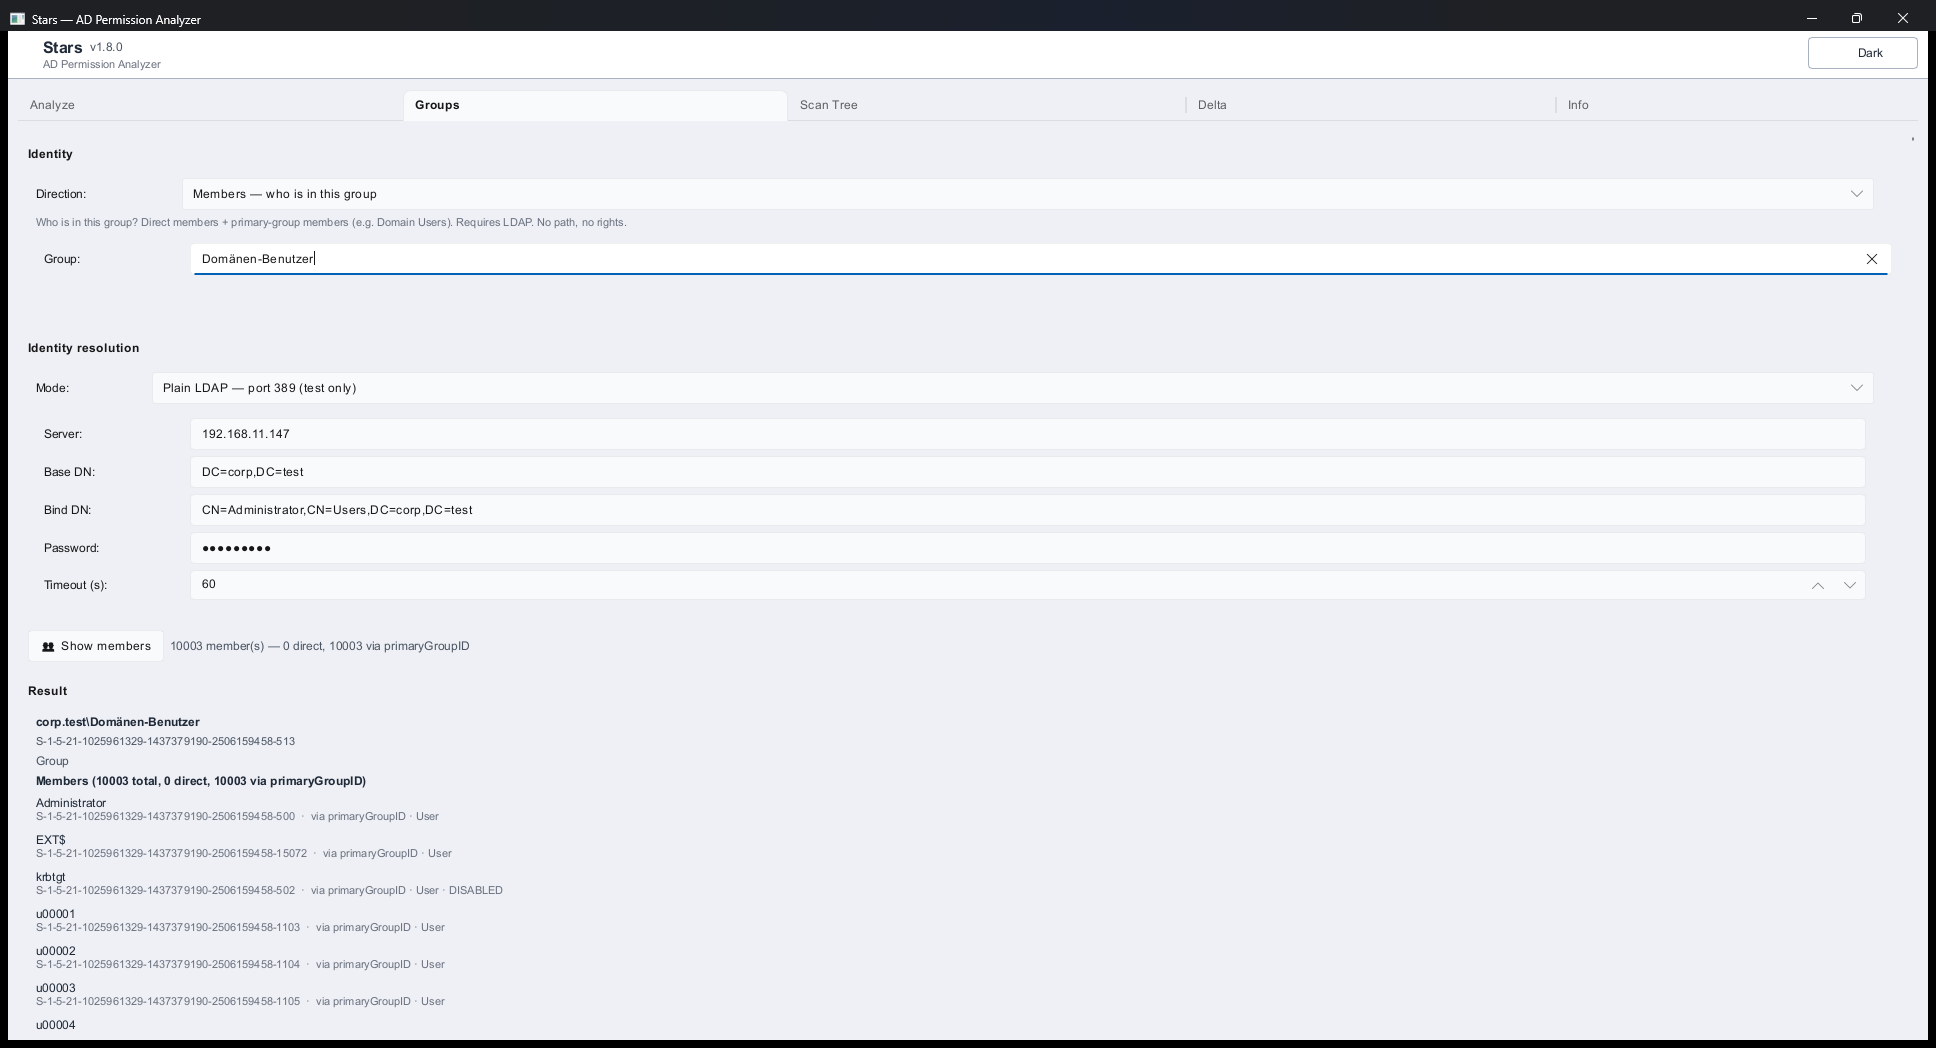
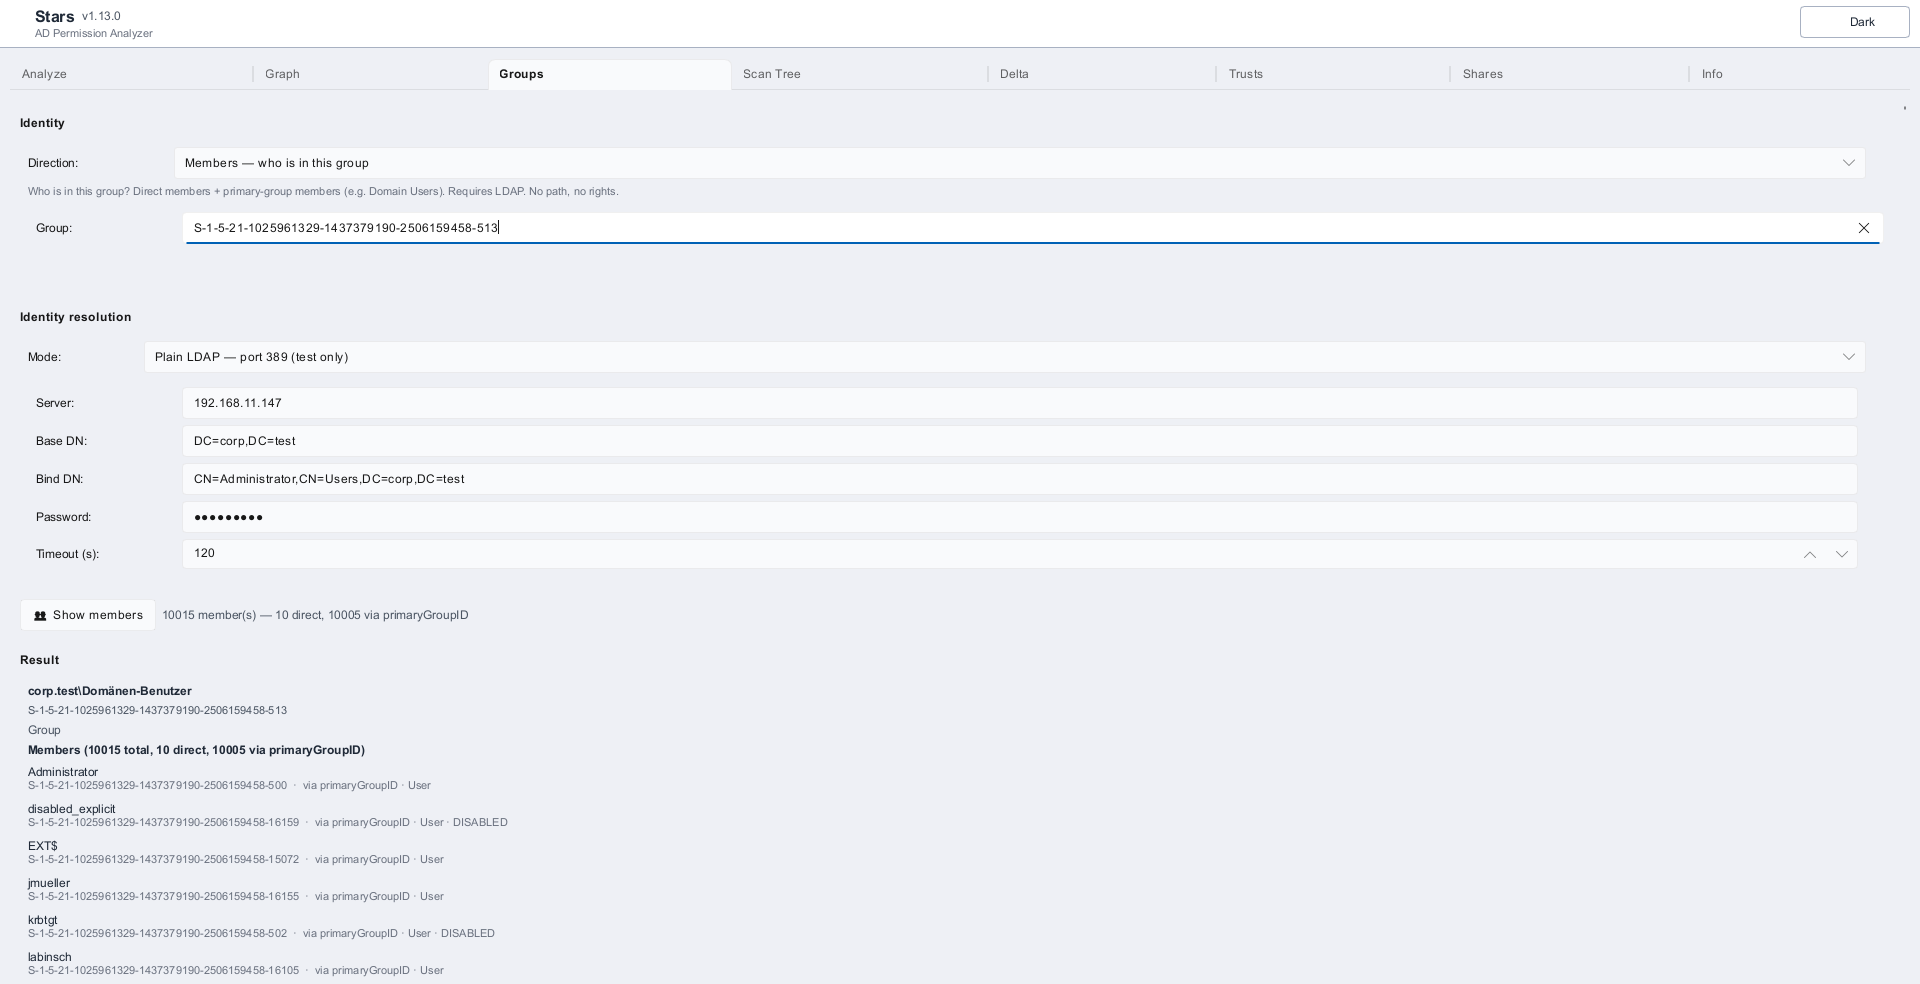
docs(screenshots): Members, Trusts and Shares tabs retaken on v1.13.0
The Shares shot showed raw SIDs; v1.11 resolves trustee names on the
server. All shots now show the eight-tab bar.

diff --git a/README.md b/README.md
@@ -427,7 +427,7 @@ Output:
 
 Switch the **Direction** toggle to **Members** to list **who is in a group** instead — direct members plus accounts whose *primary* group it is (found via a `primaryGroupID` search and tagged, so *Domain Users* is not wrongly shown as empty).
 
-![Stars Groups tab, Members direction (v1.8.0) — the domain's default user group enumerated to 10003 members, every one tagged "via primaryGroupID" and 0 direct (a naive member-attribute read would show zero members), with the LDAP connection fields above and disabled accounts marked](docs/screenshots/stars-members-view.png) Large groups are read via a paged search, so they are not silently truncated; a member that is itself a privileged group is flagged. This direction requires LDAP and lists direct members (recursive nesting planned). To check effective rights on a path, switch to the `Analyze` or `Scan Tree` tab.
+![Stars Groups tab, Members direction (v1.13.0) — the domain's default user group enumerated to 10015 members: 10 direct and 10005 tagged "via primaryGroupID" (a naive member-attribute read would show only the 10), with the LDAP connection fields above, each member with its SID and kind, and disabled accounts marked DISABLED](docs/screenshots/stars-members-view.png) Large groups are read via a paged search, so they are not silently truncated; a member that is itself a privileged group is flagged. This direction requires LDAP and lists direct members (recursive nesting planned). To check effective rights on a path, switch to the `Analyze` or `Scan Tree` tab.
 
 #### `Scan Tree` tab
 
@@ -462,13 +462,13 @@ Output:
 
 #### `Trusts` tab
 
-![Stars Trusts tab (v1.9.0) — Plain LDAP to the lab DC of corp.test, one trust found: ext.test (NetBIOS EXT), direction bidirectional, attributes "SID-filtering (quarantined)" with the raw mask 0x00000004 and the partner's domain SID, plus the orange callout that historical / foreign SIDs across this trust are dropped at runtime, so a finding relying on one may over-report](docs/screenshots/stars-trusts-tab.png)
+![Stars Trusts tab (v1.13.0) — Plain LDAP to the lab DC of corp.test, one trust found: ext.test (NetBIOS EXT), direction bidirectional, attributes "SID-filtering (quarantined)" with the raw mask 0x00000004 and the partner's domain SID, plus the orange callout that historical / foreign SIDs across this trust are dropped at runtime, so a finding relying on one may over-report](docs/screenshots/stars-trusts-tab.png)
 
 The GUI counterpart to `adpa trusts`: the domain's Active Directory trusts with direction and decoded `trustAttributes`, read over LDAP (base DN = domain root). **SID filtering** and **Selective Authentication** get an explicit ⚠ callout — both can make a finding read higher than the real runtime access, which Stars does not model (known-limitations L4). Read-only.
 
 #### `Shares` tab
 
-![Stars Shares tab (v1.9.0) — the lab DC's shares with administrative shares hidden (11 shown, 3 hidden): a $-named data share flagged "hidden data share ($) — not listed when browsing, NOT administrative", a share with share-level Read entries, a share with an empty DACL ("no access via this share"), a share with a share-level Deny shown in red, each share with its UNC path, local target, and Allow/Deny entries with rights label and raw mask](docs/screenshots/stars-shares-tab.png)
+![Stars Shares tab (v1.13.0) — the lab DC's shares with administrative shares hidden (11 shown, 3 hidden): every trustee shown by name (resolved on the server) and SID, a $-named data share flagged "hidden data share ($) — not listed when browsing, NOT administrative", a share with share-level Read entries, a share with an empty DACL ("no access via this share"), a share with a share-level Deny shown in red, each share with its UNC path, local target, and Allow/Deny entries with rights label and raw mask](docs/screenshots/stars-shares-tab.png)
 
 The GUI counterpart to `adpa shares`: a server's SMB shares with their share-level permissions. NULL DACL (no share restriction), empty DACL (no access) and an ACE list stay visibly distinct; account names are resolved where possible; administrative shares are hidden unless the checkbox is ticked; unreadable shares and unevaluated ACEs are shown, not dropped. Read-only.
 

diff --git a/CHANGELOG.md b/CHANGELOG.md
@@ -21,7 +21,9 @@ Versions prior to `v0.2.0-rc1` are summarized because no formal release notes ex
   groups only on a DC, no domain accounts from outside the domain) and
   that only security groups are listed; the Analyze section names all
   five modes, the Scan Tree section the field at all.
-- **Screenshots** of the Analyze, Graph and Groups tabs taken on v1.13.0.
+- **Screenshots** of every tab shown in the docs retaken on v1.13.0 (Analyze,
+  Graph, Groups, Members, Trusts, Shares) — the Shares view now shows the
+  trustee names that v1.11 resolves on the server instead of raw SIDs.
 
 ## [1.13.0] — 2026-10-17
 
